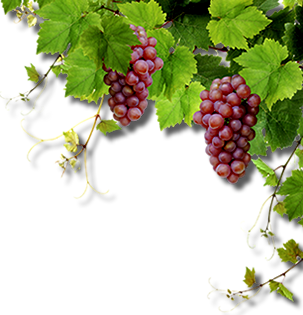
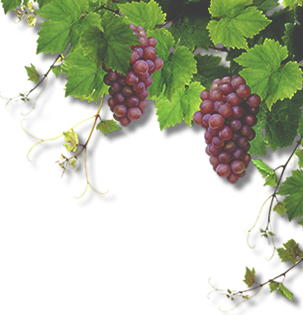
softened vines and added offwhite background colour

diff --git a/app/assets/stylesheets/custom.css.scss b/app/assets/stylesheets/custom.css.scss
@@ -8,9 +8,10 @@ html {
 }
 
 body {
-	background: url(vine-tr.png), url(vine-br.png), url(vine-tl.png), url(vine-bl.png);
+	background: url(vine-tr.png), url(vine-tl.png);
+	background-color: #ffffe9;
 	background-repeat:no-repeat;
-	background-position: right top, right bottom, top left, bottom left;
+	background-position: right top, top left;
 	padding-top: 60px;
 	padding-bottom: 40px;
 }
